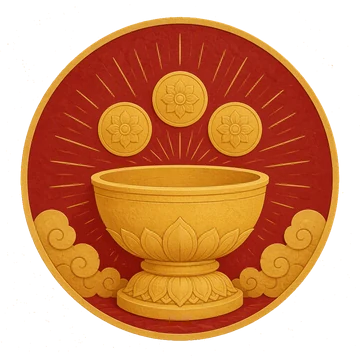
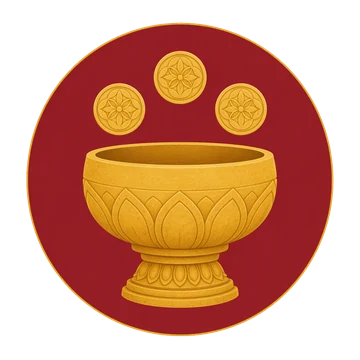
fix: 领福徽记归队家族 + 零依赖纪律在 3.8 上重新生效
领福徽记：首版金环明显粗于另四枚圆徽，云纹越出环外，绛红底还带放射线
肌理，并排时是五枚里唯一的「重边」，脱开了「细金环框」的家族规格。
prompt 显式压住环宽与越界后重出，已在亮底暗底双重合成下与另四枚并排核对。

零依赖纪律：原 test_no_third_party_imports 依赖 sys.stdlib_module_names，
而该属性是 Python 3.10+ 才有的，项目声明支持 3.8+，于是这条校验在最低
支持版本上被 skipUnless 静默跳过，等于没有。改为版本无关的显式白名单
（os/re/sys/unittest），任何新增 import 都必须显式入册；3.10+ 上额外跑一条
交叉校验，确认白名单自身不被塞进第三方模块。已验证判据非恒真：
注入 requests 可触发失败。

alpha 判据：补 TODO 说明 VP8L（无损）其实可自带 alpha，当前判据会把无损
导出误判为未镂空。失败方向保守，但若将来改无损导出必须同步修改。

diff --git a/tests/test_assets.py b/tests/test_assets.py
@@ -71,6 +71,11 @@ def webp_has_alpha(path):
     与无损 ``VP8L`` 这里一律按「没有镂空」处理 —— 本仓库的徽记都是带 VP8X
     alpha 块导出的。不是 webp（比如 og-card.png）返回 None。
 
+    TODO：``VP8L`` 其实可以自带 alpha（无损格式的标志位在位流里，不在容器头）。
+    当前判据会把无损导出误判为「没镂空」，失败方向是保守的（该绿的变红，
+    不会该红的变绿）。若将来把 ``tools/gen_assets.py`` 的导出改成无损 WebP，
+    必须同步修改这里的判据，否则这条校验会误报。
+
     不 import Pillow：资产是预先生成并提交的，没装 Pillow 的环境也要能跑这条。
     """
     with open(path, "rb") as f:
@@ -237,10 +242,26 @@ class HtmlCellTest(unittest.TestCase):
 class StdlibOnlyTest(unittest.TestCase):
     """本测试自身的零依赖纪律：只碰标准库，不碰构建期工具。"""
 
-    @unittest.skipUnless(hasattr(sys, "stdlib_module_names"), "需要 Python 3.10+ 的标准库清单")
-    def test_no_third_party_imports(self):
-        mods = own_imported_roots()
-        self.assertEqual(mods - set(sys.stdlib_module_names), set())
+    # 本文件允许 import 的模块白名单。
+    # 用白名单而不是只靠 sys.stdlib_module_names：后者是 Python 3.10+ 才有的，
+    # 而项目声明支持 3.8+，单靠它会让「只用标准库」这条纪律在 3.8/3.9 上被
+    # skip 掉，等于没有校验。白名单是版本无关的，在最低支持版本上照样生效。
+    ALLOWED_IMPORTS = frozenset({"os", "re", "sys", "unittest"})
+
+    def test_imports_stay_within_allowlist(self):
+        """任何新增 import 都必须显式进白名单，第三方模块一律挡掉。"""
+        extra = own_imported_roots() - self.ALLOWED_IMPORTS
+        self.assertEqual(extra, set(),
+                         "资产测试引入了白名单外的模块：%s。"
+                         "新增标准库模块请显式加进 ALLOWED_IMPORTS；"
+                         "第三方模块一律不允许。" % sorted(extra))
+
+    @unittest.skipUnless(hasattr(sys, "stdlib_module_names"),
+                         "白名单交叉校验需要 Python 3.10+ 的标准库清单")
+    def test_allowlist_contains_only_stdlib(self):
+        """3.10+ 上额外确认白名单自身全是标准库，防止有人往白名单里塞第三方模块。"""
+        extra = self.ALLOWED_IMPORTS - set(sys.stdlib_module_names)
+        self.assertEqual(extra, set(), "白名单里出现了非标准库模块：%s" % sorted(extra))
 
     def test_does_not_import_build_tool(self):
         mods = own_imported_roots()

diff --git a/tools/gen_assets.py b/tools/gen_assets.py
@@ -111,9 +111,14 @@ MANIFEST = [
     ("ritual-morning", "1024x1024", (360, 360), FRAME_MEDALLION,
      "A sunrise disc rising behind a single temple arch, three thin radiating light "
      "beams above it, a small bell hanging under the arch."),
+    # 注：首版的金环明显粗于另四枚，云纹越出环外，绛红底还带放射线肌理，
+    # 并排时是五枚圆徽里唯一的「重边」，脱开了家族。故显式压住环宽与越界。
     ("ritual-blessing", "1024x1024", (360, 360), FRAME_MEDALLION,
      "A wide alms bowl on a small pedestal, three round coin-like discs floating in "
-     "an arc above the bowl, gentle rays behind."),
+     "an arc above the bowl. The circular ring frame must be a thin plain hairline of "
+     "uniform width, exactly like a simple drawn circle. Nothing may extend beyond or "
+     "overlap the ring. The crimson field is flat and plain with no radiating lines "
+     "and no texture pattern."),
     ("ritual-inventory", "1024x1024", (360, 360), FRAME_MEDALLION,
      "A tiered stone shelf holding small rolled scroll cases, a short stack of round "
      "coin-like discs beside them, a single row of abacus beads below."),
